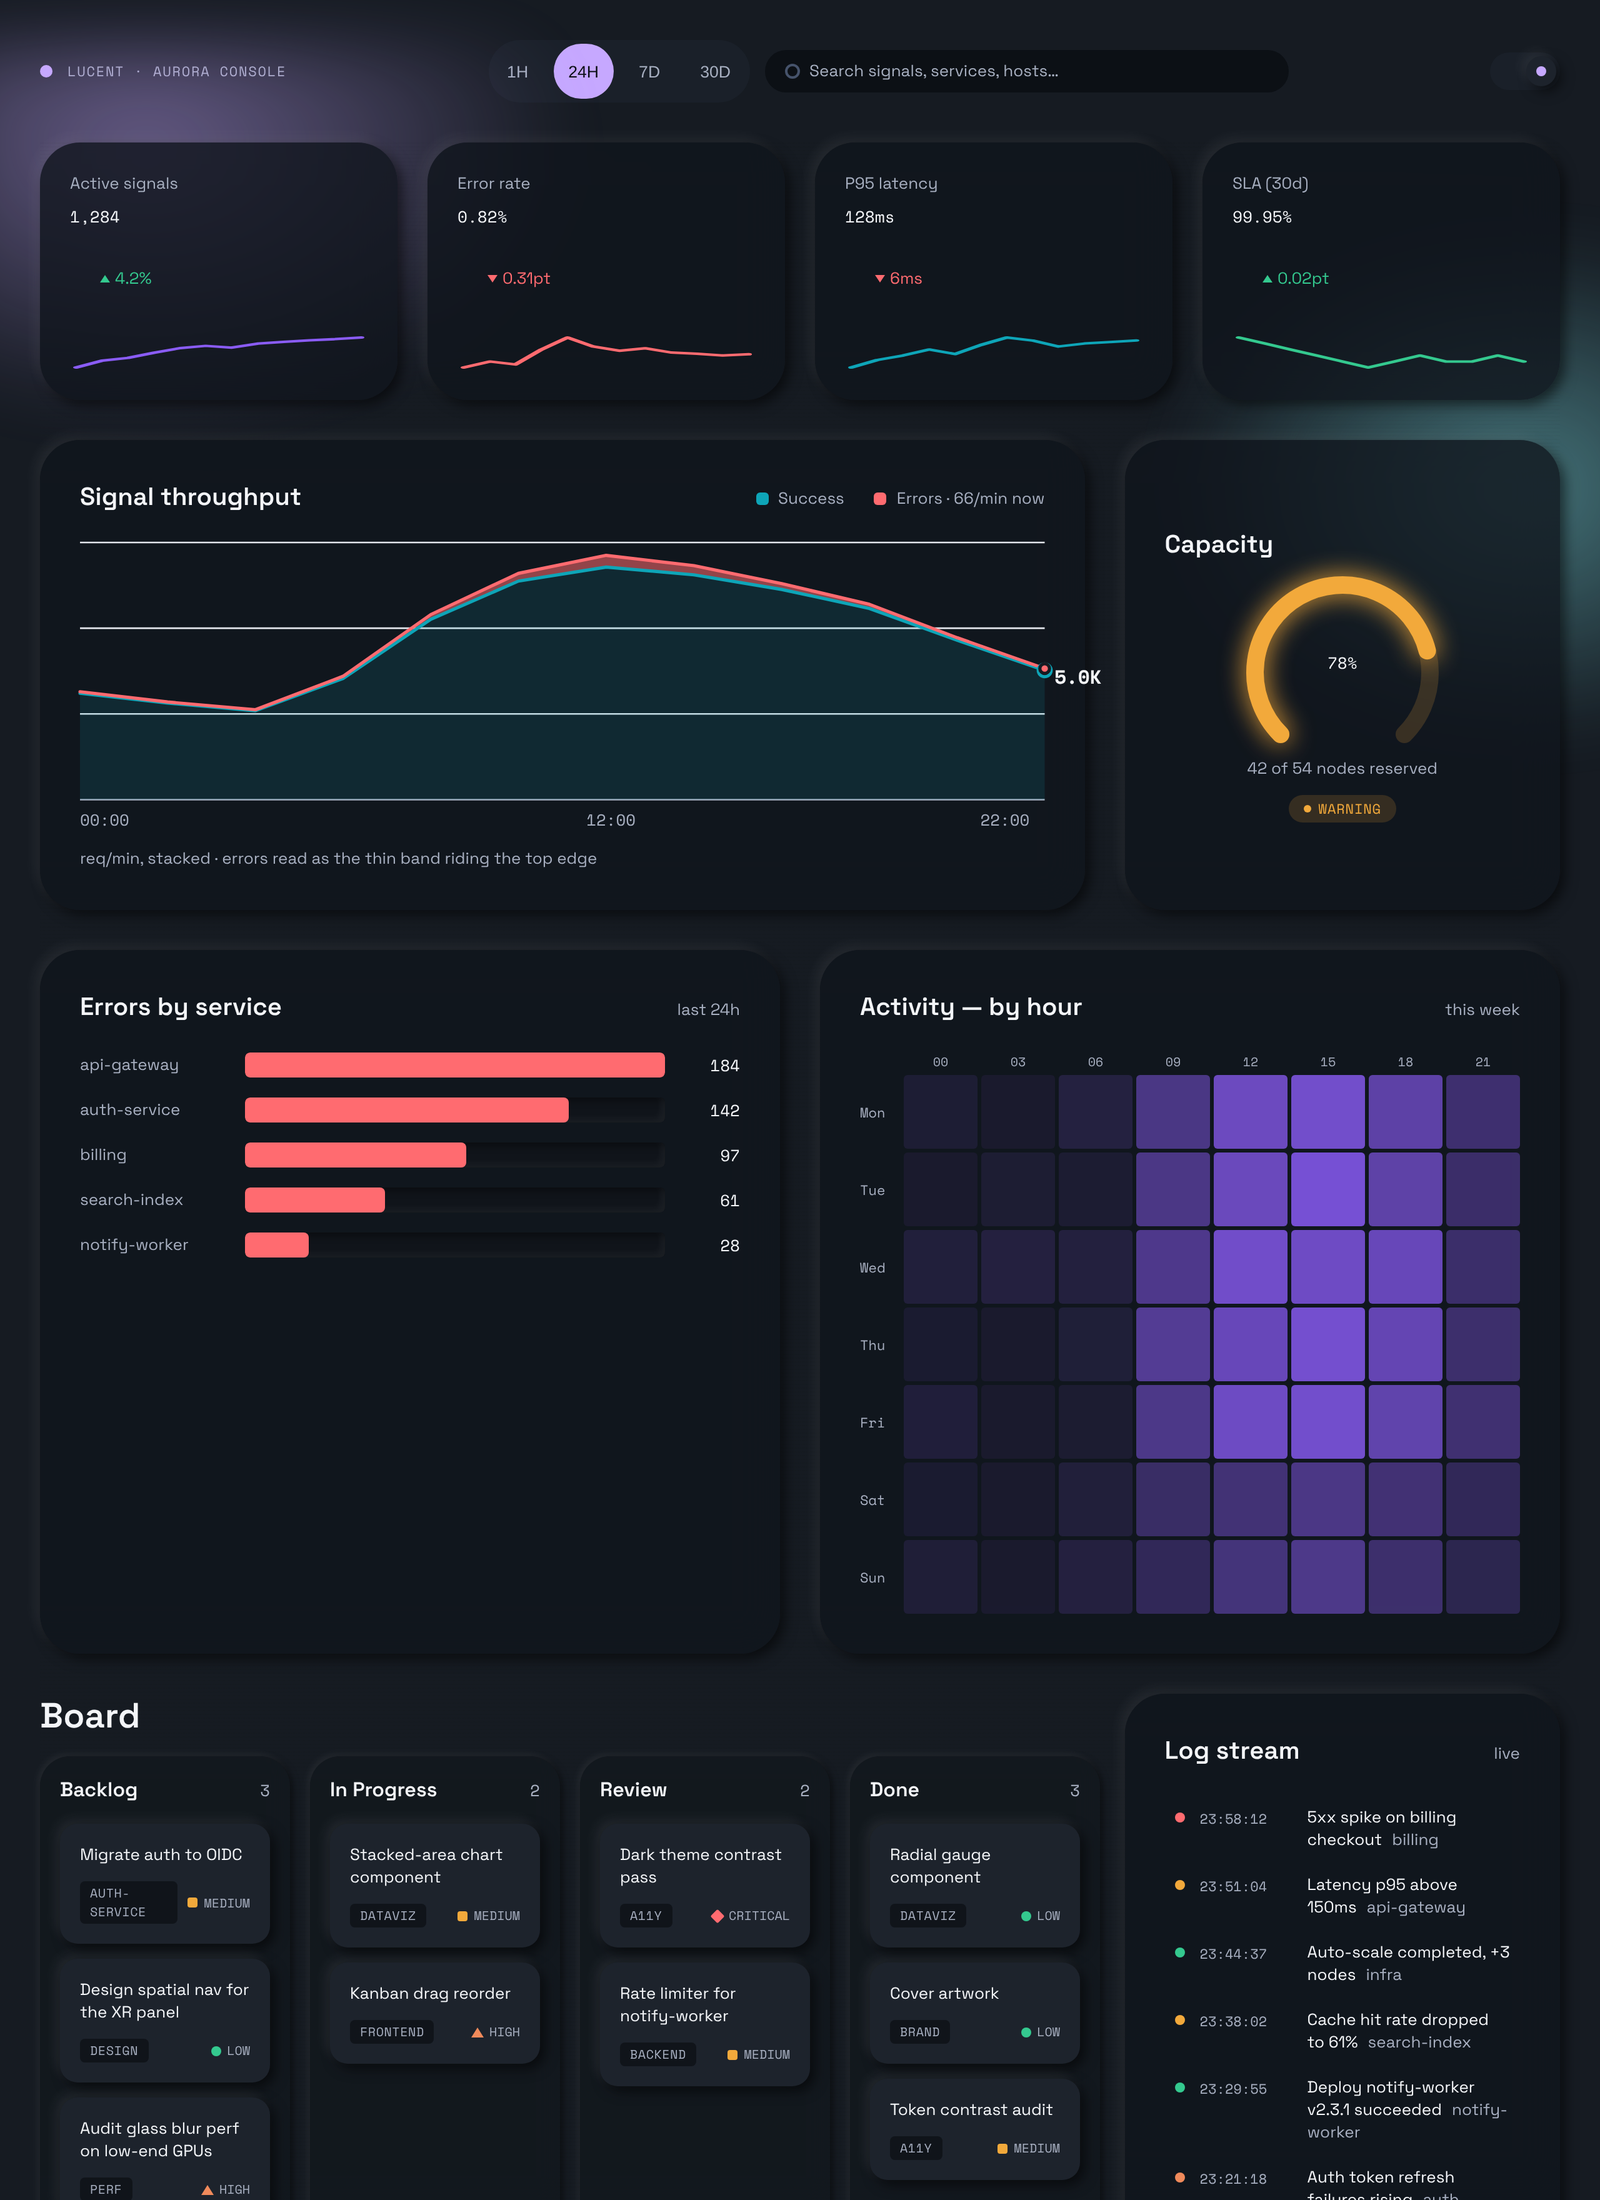
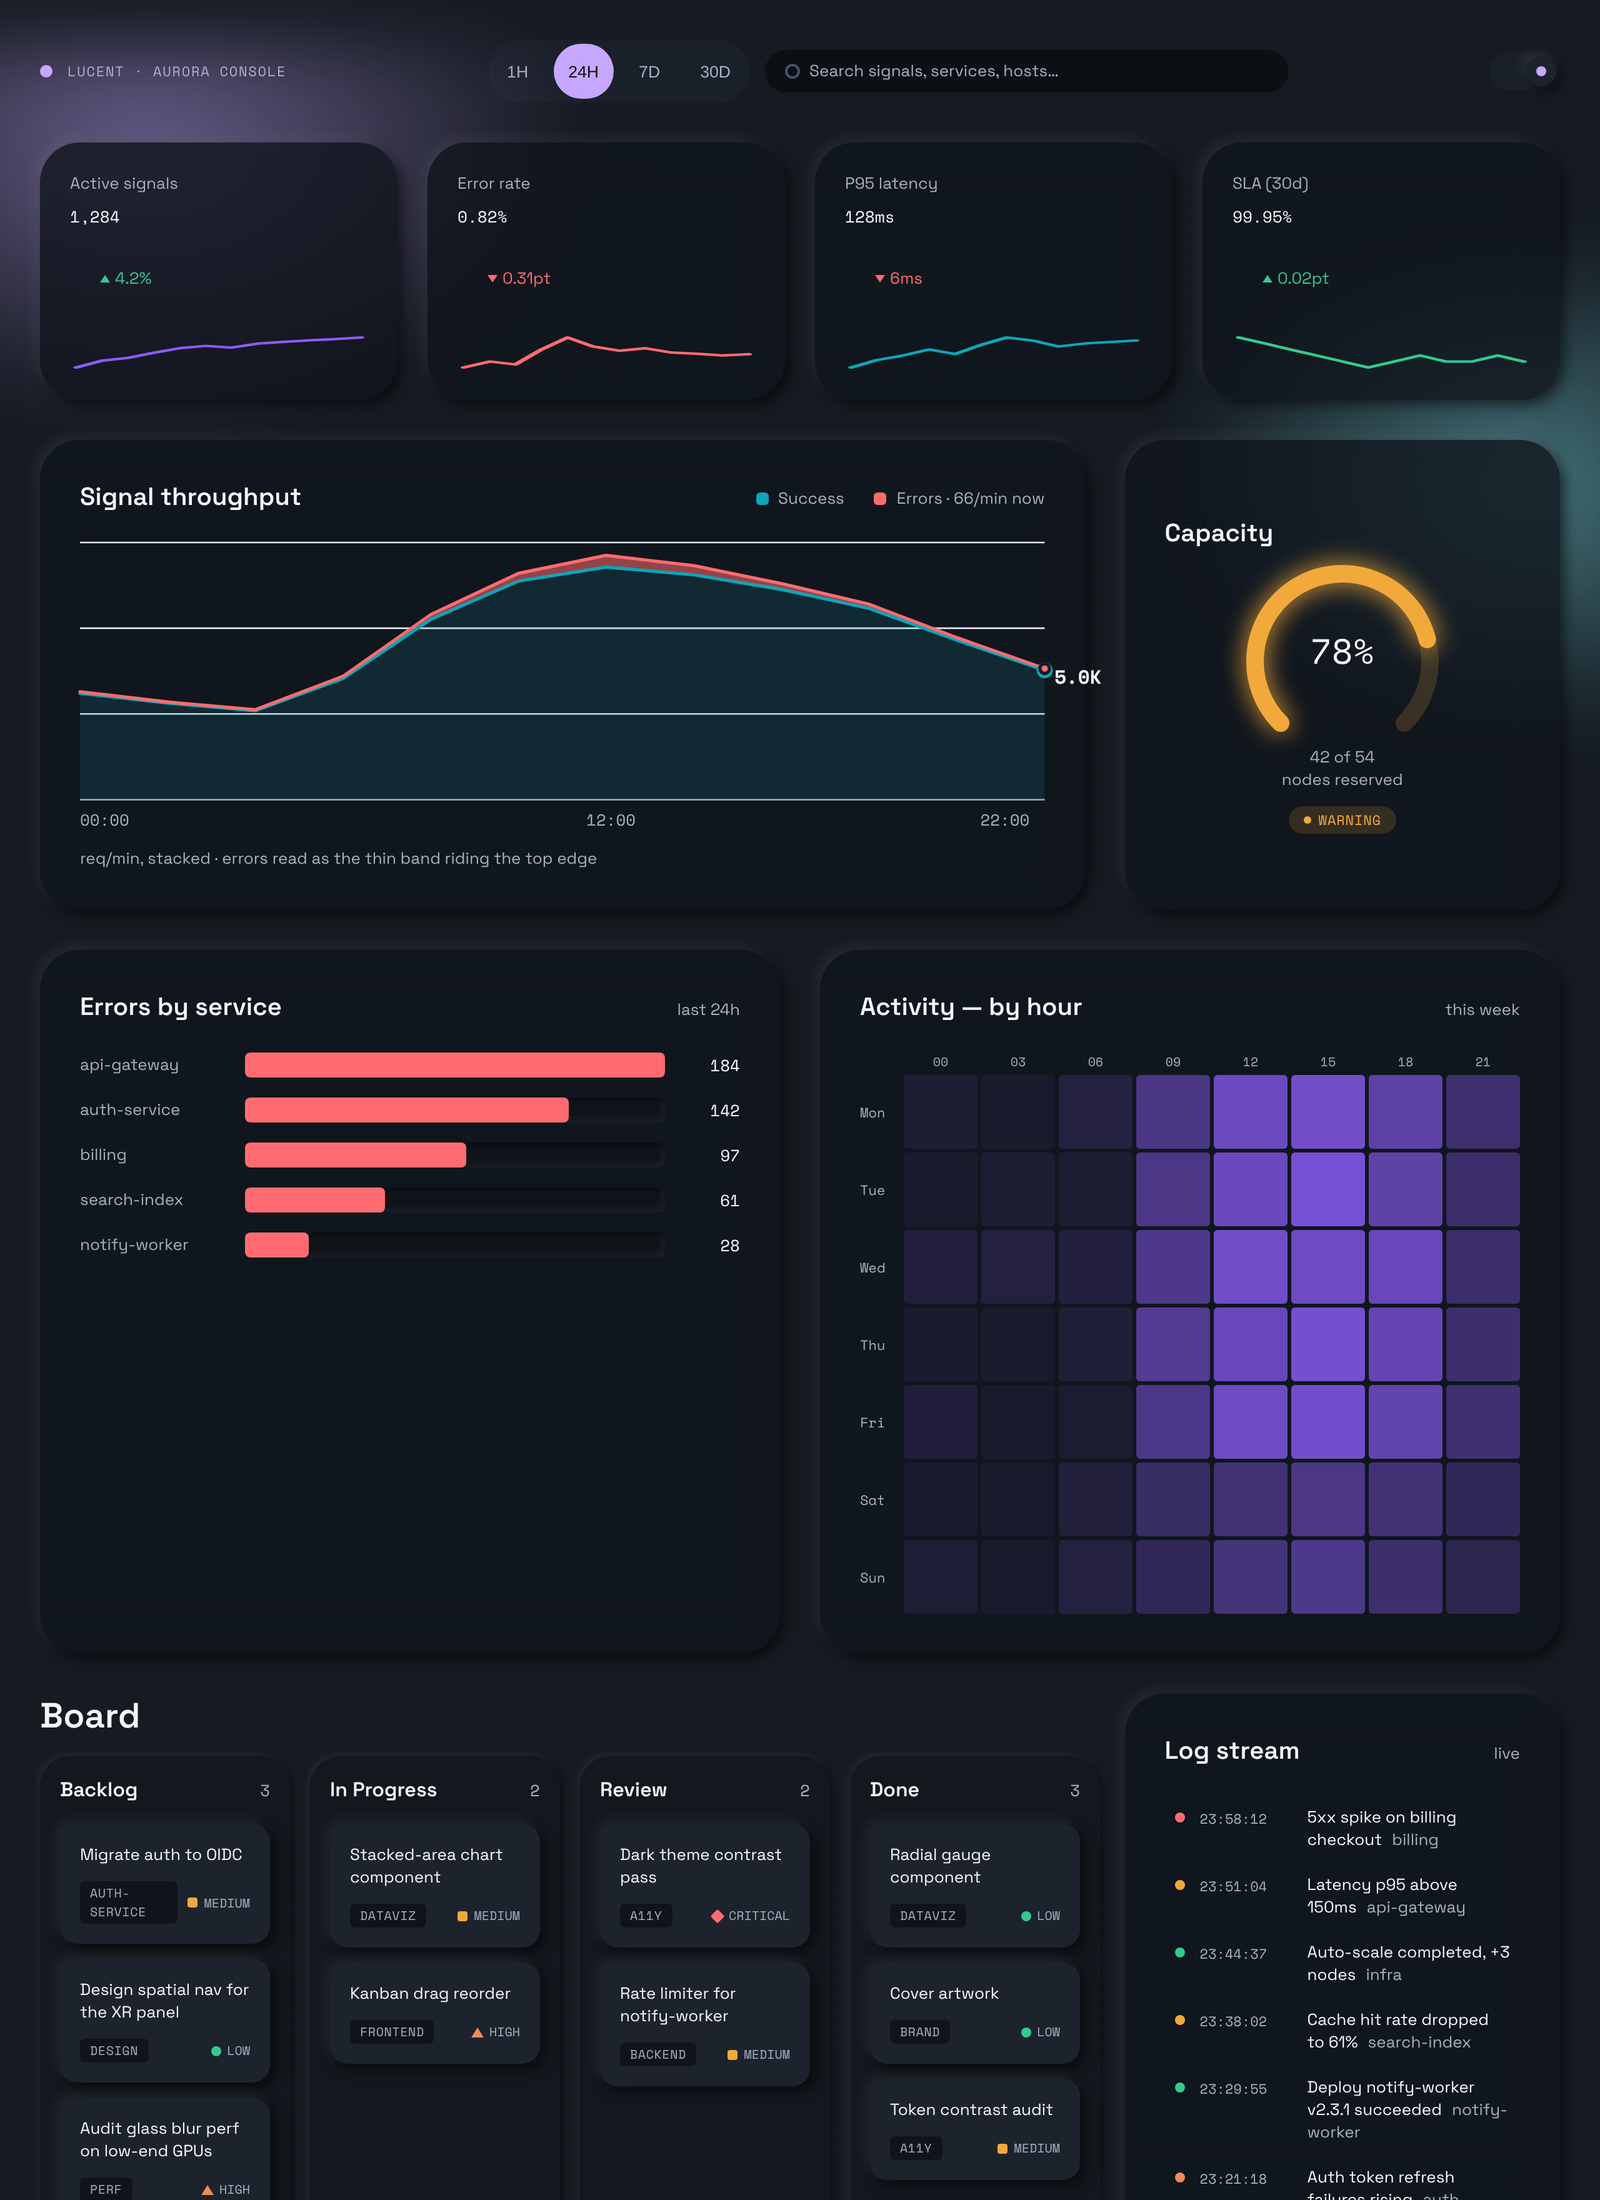
Lucent DS 0.5.2: dashboard gauge caption and figure size

Changed region(s): [[0.7812, 0.2473, 0.9062, 0.4018], [0.7188, 0.2164, 0.7812, 0.2473]]

diff --git a/project/components/Dashboard-AuroraConsole/preview.html b/project/components/Dashboard-AuroraConsole/preview.html
@@ -113,7 +113,7 @@
   .lc-d-gauge { display: flex; flex-direction: column; align-items: center; text-align: center; height: 100%; justify-content: center; }
   .lc-d-gauge svg { overflow: visible; }
   /* the figure sits inside the ring; the caption starts 8px below the ring so it never crosses the arc ends */
-  .lc-d-gauge .figure { margin: -88px 0 0; height: 40px; line-height: 40px; }
+  .lc-d-gauge .figure { margin: -88px 0 0; height: 40px; line-height: 40px; font-size: 1.75rem; }
   .lc-d-gauge .cap { margin: 56px 0 0; color: var(--ink-muted); }
   .lc-d-gauge .band { display: inline-flex; align-items: center; gap: 6px; margin-top: var(--space-3); padding: var(--space-1) var(--space-3); border-radius: var(--radius-full); background: color-mix(in srgb, var(--status-warning) 16%, transparent); color: var(--status-warning); }
   .lc-d-gauge .band .dot { width: 6px; height: 6px; border-radius: var(--radius-full); background: var(--status-warning); }
@@ -271,7 +271,7 @@
             <path d="M40.5,139.5 A70,70 0 1 1 157.8,72.59" fill="none" stroke="var(--status-warning)" stroke-width="14" stroke-linecap="round" style="filter: drop-shadow(0 0 10px var(--status-warning));"/>
           </svg>
           <p class="display-lg data-mono figure">78%</p>
-          <p class="cap body-sm">42 of 54 nodes reserved</p>
+          <p class="cap body-sm">42 of 54<br>nodes reserved</p>
           <span class="band label-mono"><span class="dot"></span>WARNING</span>
         </div>
       </div>
